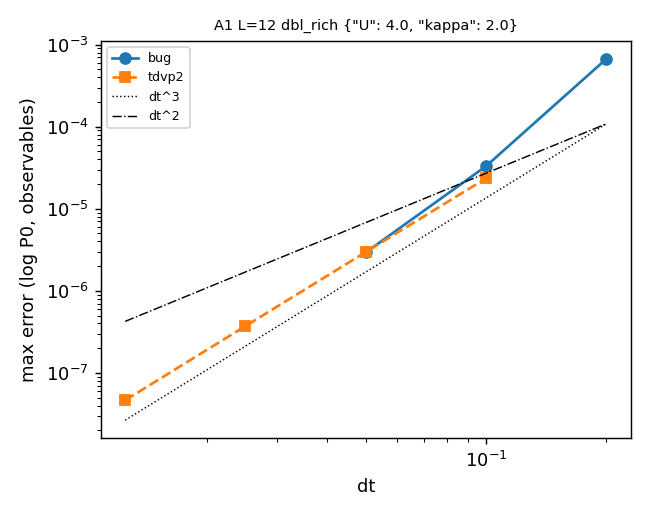
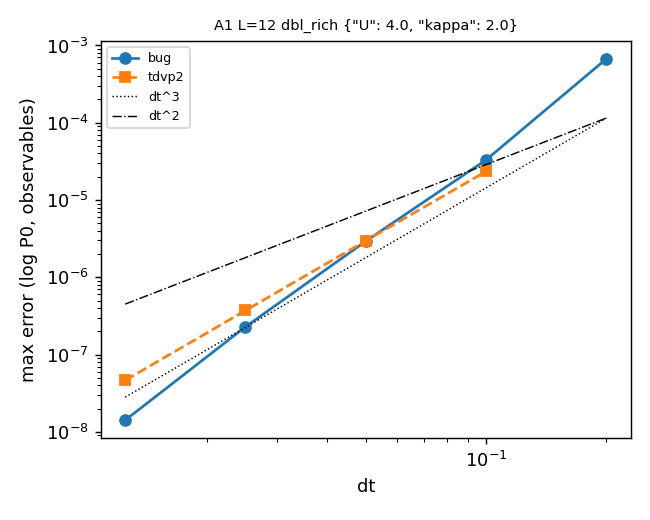
Task 6: final A1 time-to-accuracy (dr6e); second defect confirmed (dt7d, rp7d); A2/B2 reruns submitted

diff --git a/docs/dissipative_plan_audit.md b/docs/dissipative_plan_audit.md
@@ -759,3 +759,35 @@ bit-identical.
 - Cancelled: dr6w, dr6k, dr6vb and dr7s (A1 and B1 checks had passed). They are rerun on
   `3fa0e78` after dt7a 17497637 (`test_krylov_closure` with UT5b, `test_krylov_closure_steps`,
   `test_adaptive_krylov`, `t3_a2`, `t2_g12`, `t5`) and the replay rp7b 17497639 confirm it.
+
+**Second defect fixed and confirmed (`599516a` + test `c3a6765`).** `_polar_frame` took two
+attempts: Telum's U and Vd new legs share an arrow, and its S blocks are `DiagRMT`. The final form
+is `U S^0 Vd` with unit singular values set in place.
+
+- dt7d 17497771 passes `test_krylov_closure` (with UT5b), `test_krylov_closure_steps`,
+  `test_adaptive_krylov`, `test_dissipative_t3_a2`, `t2_g12`, `t5` and `test_dd_cbe`.
+- UT5b originally measured the defect as √(‖G‖² - 2‖F‖² + k), which floors at √(k eps) ≈ 4e-8
+  (dt7c). It now uses `left/right_isometry_defect` and ‖Pm'Pm - G‖ directly, at the same 1e-13
+  and 1e-12 thresholds.
+- Replay rp7d 17497772: both crash steps complete, no frame crosses 1e-5, and the root energies
+  barely move (10.698 → 10.692 and 6.749 → 6.748; before the fix the starting energy was 15.7 and
+  1e9). The root frames are also smaller (A2 L = 48: 30 + 23 + 1 columns, against 103 + 23 + 1),
+  because the non-isometric frames had carried spurious directions.
+- Rerun on `c3a6765`: dr6w2 17499263 (A2 stability), dr6k2 17499264 (B2 pilots), dr6v2 17499265
+  (A2 L = 32) and dr7t 17499266 (the full Task 7 smoke).
+
+**A1 time-to-accuracy, final (dr6e 17497216, every arm on th-cl-dell09, a Xeon Gold 6130;
+arm 5 rerun as 17497698 on the same node and code after an OOM at 6 G; reference dt 0.00625,
+good to about 1e-9; figures `a1_tta`).**
+
+| arm | dt | error | wall [s] |
+|---|---|---|---|
+| BUG | 0.0125 / 0.025 / 0.05 / 0.1 / 0.2 | 1.4e-8 / 2.3e-7 / 2.9e-6 / 3.3e-5 / 6.7e-4 | 1494 / 780 / 443 / 457 / 579 |
+| TDVP2 | 0.0125 / 0.025 / 0.05 / 0.1 | 4.6e-8 / 3.7e-7 / 3.0e-6 / 2.4e-5 | 759 / 482 / 389 / 396 |
+
+On this point (κ = 2, product start, Jt = 1) TDVP2 is 1.1-1.6 times cheaper at matched error:
+1.14 at 3e-6, about 1.6 at 3e-7, and about 1.4 at 1e-8 against TDVP2 interpolated along its slope
+of 3. BUG's slopes are about 4 (one-step order from the product state), but the cost of a BUG
+step hardly falls with dt, so halving dt nearly doubles its wall. The strong-loss stability point
+(κ = 20, warm start) goes the other way, with BUG about 3.5 times cheaper at 1e-8. As plan §4.5
+asks, the comparison is parameter- and model-dependent.
